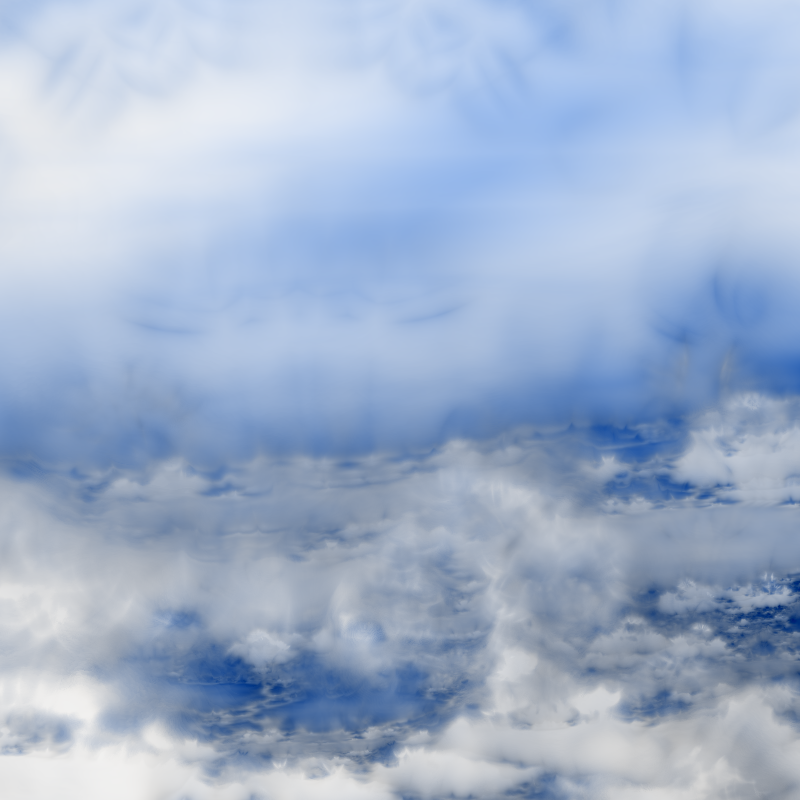
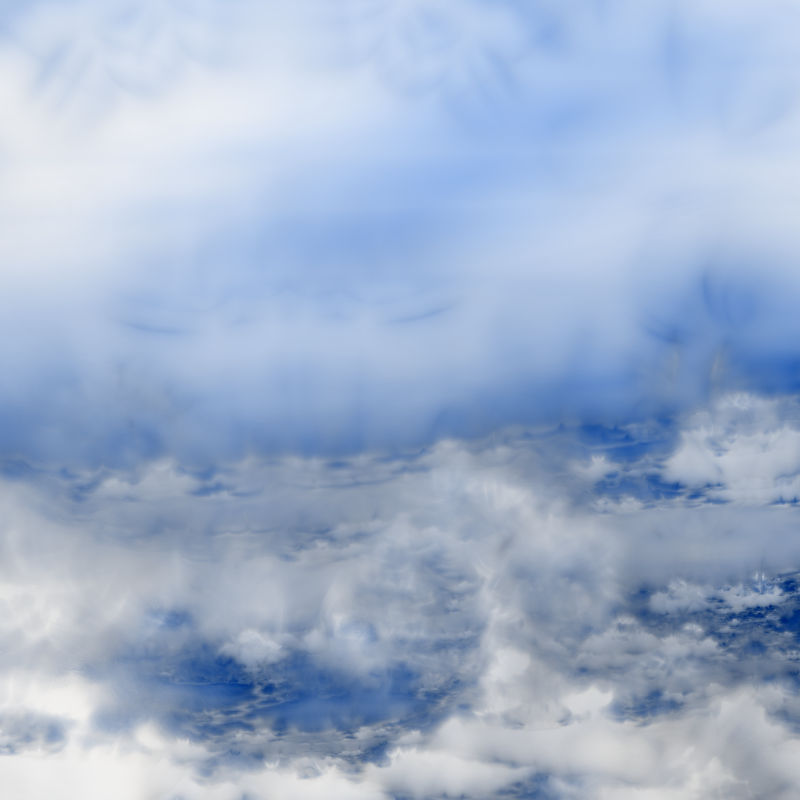
057: default to the published twigl source; keep the post's camera as a variant
Claude-Session: https://claude.ai/code/session_013HQgzbhzSbuk3Bazt74NBY

diff --git a/projects/057-after-nishitsuji/sketch.js b/projects/057-after-nishitsuji/sketch.js
@@ -1,10 +1,15 @@
-// After Nishitsuji — a faithful transcription of a twigl "geekest" one-liner by Yohei Nishitsuji
-// (x.com/yoheinishitsuji/status/1999814369925046474), expanded into readable GLSL ES 3.00.
+// After Nishitsuji — a faithful transcription of a twigl "geekest" one-liner by Yohei Nishitsuji,
+// expanded into readable GLSL ES 3.00.
+//   twigl:  https://twigl.app?ol=true&ss=-OgMbTexmkAwvg_2mnM_  (published source, the default)
+//   post:   x.com/yoheinishitsuji/status/1999814369925046474
 //
-// The original, verbatim:
+// The twigl source, verbatim:
 //   for(float i,g,e,s;++i<99.;o.rgb+=.01-hsv(.1,g*.016-e*.3,s/2e2)){vec3 p=vec3((FC.xy-.5*r)/r.y*5.
-//   +vec2(0,9),g)*rotate3D(-1.1-cos(t*.15)*.1,vec3(1,11.+sin(t)*.15,-1.5));s=2.;for(int i;i++<19;
+//   +vec2(0,9),g)*rotate3D(-1.15-cos(t*.2)*.05,vec3(1,11.+sin(t)*.2,-1.5));s=2.;for(int i;i++<19;
 //   p=vec3(.08,4,-1)-abs(abs(p)*e-vec3(3,4,3)))s*=e=7.1/dot(p,p*.51);g+=p.y/s;s=log2(s)/exp(e);}
+//
+// The variant quoted with the post differs only in the camera:
+//   rotate3D(-1.1-cos(t*.15)*.1, vec3(1,11.+sin(t)*.15,-1.5))
 //
 // twigl provides FC (gl_FragCoord), r (resolution), t (seconds), o (output) and the helpers
 // hsv() and rotate3D(), reproduced below. Defaults reproduce the original exactly; the panel
@@ -16,7 +21,13 @@
   addEventListener('error', e => err(e.message));
 
   const q = new URLSearchParams(location.search);
+  // camera: rotate3D(-base - cos(t*freq)*amp, vec3(1, 11 + sin(t)*axis, -1.5))
+  const CAMERAS = {
+    twigl: { base: 1.15, freq: 0.2, amp: 0.05, axis: 0.2 },
+    post: { base: 1.1, freq: 0.15, amp: 0.1, axis: 0.15 },
+  };
   const P = {
+    camera: q.get('camera') === 'post' ? 'post' : 'twigl',
     steps: 99,          // outer march limit (original: ++i<99. → 98 samples)
     folds: 19,          // inner fold iterations
     scale: 7.1,         // inversion numerator: e = scale / dot(p, p*.51)
@@ -38,6 +49,7 @@ in vec2 a; void main(){ gl_Position = vec4(a, 0., 1.); }`;
 precision highp float;
 uniform vec2 r; uniform float t;
 uniform int uSteps, uFolds; uniform float uScale, uZoom, uHue;
+uniform vec4 uCam; // base, freq, amp, axis
 out vec4 o;
 
 // twigl helpers
@@ -60,7 +72,7 @@ void main(){
   o = vec4(0., 0., 0., 1.);
   float g = 0., e = 0., s = 0.;
   // camera: slow sway of the rotation angle and axis
-  mat3 R = rotate3D(-1.1 - cos(t*.15)*.1, vec3(1., 11. + sin(t)*.15, -1.5));
+  mat3 R = rotate3D(-uCam.x - cos(t*uCam.y)*uCam.z, vec3(1., 11. + sin(t)*uCam.w, -1.5));
   for (int i = 1; i < 1000; i++) {
     if (i >= uSteps) break;
     // ray position: screen plane offset upward by 9, depth = accumulated distance g
@@ -99,7 +111,7 @@ void main(){
   gl.enableVertexAttribArray(loc);
   gl.vertexAttribPointer(loc, 2, gl.FLOAT, false, 0, 0);
   const U = n => gl.getUniformLocation(prog, n);
-  const u = { r: U('r'), t: U('t'), steps: U('uSteps'), folds: U('uFolds'), scale: U('uScale'), zoom: U('uZoom'), hue: U('uHue') };
+  const u = { r: U('r'), t: U('t'), steps: U('uSteps'), folds: U('uFolds'), scale: U('uScale'), zoom: U('uZoom'), hue: U('uHue'), cam: U('uCam') };
 
   function resize() {
     const w = Math.round(innerWidth * P.resolution), h = Math.round(innerHeight * P.resolution);
@@ -119,6 +131,8 @@ void main(){
     gl.uniform1f(u.scale, P.scale);
     gl.uniform1f(u.zoom, P.zoom);
     gl.uniform1f(u.hue, P.hue);
+    const c = CAMERAS[P.camera];
+    gl.uniform4f(u.cam, c.base, c.freq, c.amp, c.axis);
     gl.drawArrays(gl.TRIANGLES, 0, 3);
     requestAnimationFrame(draw);
   }
@@ -132,6 +146,7 @@ void main(){
 
   if (window.lil) {
     const gui = new lil.GUI({ title: 'After Nishitsuji' });
+    gui.add(P, 'camera', { 'twigl (published)': 'twigl', 'post text': 'post' });
     gui.add(P, 'steps', 10, 300, 1);
     gui.add(P, 'folds', 4, 30, 1);
     gui.add(P, 'scale', 5, 9, 0.01);
@@ -139,7 +154,7 @@ void main(){
     gui.add(P, 'hue', 0, 1, 0.005);
     gui.add(P, 'speed', 0, 3, 0.01);
     gui.add(P, 'resolution', 0.25, 2, 0.05);
-    gui.add({ reset() { Object.assign(P, { steps: 99, folds: 19, scale: 7.1, zoom: 5, hue: 0.1, speed: 1 }); gui.controllersRecursive().forEach(c => c.updateDisplay()); } }, 'reset').name('reset to original');
+    gui.add({ reset() { Object.assign(P, { camera: 'twigl', steps: 99, folds: 19, scale: 7.1, zoom: 5, hue: 0.1, speed: 1 }); gui.controllersRecursive().forEach(c => c.updateDisplay()); } }, 'reset').name('reset to original');
     gui.add({ save }, 'save').name('save PNG');
     if (innerWidth < 640) gui.close();
   }

diff --git a/projects/057-after-nishitsuji/README.md b/projects/057-after-nishitsuji/README.md
@@ -1,16 +1,21 @@
 # After Nishitsuji
 
 *A transcription, not an original work.* A one-line twigl shader by Yohei Nishitsuji
-([x.com/yoheinishitsuji/status/1999814369925046474](https://x.com/yoheinishitsuji/status/1999814369925046474)),
+([published on twigl](https://twigl.app?ol=true&ss=-OgMbTexmkAwvg_2mnM_), shown in
+[this post](https://x.com/yoheinishitsuji/status/1999814369925046474)),
 expanded into readable GLSL ES 3.00 and run as a standalone WebGL2 page. At the default settings
 the output matches the original: a cloud deck seen from above, drifting under a slowly swaying
 camera.
 
-## Original (verbatim)
+## Original (verbatim, from the twigl snapshot, mode 7 "geekest 300 es", dated 2025-12-13)
 
 ```glsl
-for(float i,g,e,s;++i<99.;o.rgb+=.01-hsv(.1,g*.016-e*.3,s/2e2)){vec3 p=vec3((FC.xy-.5*r)/r.y*5.+vec2(0,9),g)*rotate3D(-1.1-cos(t*.15)*.1,vec3(1,11.+sin(t)*.15,-1.5));s=2.;for(int i;i++<19;p=vec3(.08,4,-1)-abs(abs(p)*e-vec3(3,4,3)))s*=e=7.1/dot(p,p*.51);g+=p.y/s;s=log2(s)/exp(e);}
+for(float i,g,e,s;++i<99.;o.rgb+=.01-hsv(.1,g*.016-e*.3,s/2e2)){vec3 p=vec3((FC.xy-.5*r)/r.y*5.+vec2(0,9),g)*rotate3D(-1.15-cos(t*.2)*.05,vec3(1,11.+sin(t)*.2,-1.5));s=2.;for(int i;i++<19;p=vec3(.08,4,-1)-abs(abs(p)*e-vec3(3,4,3)))s*=e=7.1/dot(p,p*.51);g+=p.y/s;s=log2(s)/exp(e);}
 ```
+
+The version quoted with the post differs only in the camera:
+`rotate3D(-1.1-cos(t*.15)*.1,vec3(1,11.+sin(t)*.15,-1.5))` (a slightly higher, slower, wider sway).
+The panel's **camera** control switches between them; `?camera=post` selects the post's version.
 
 ## How it works
 
@@ -27,7 +32,7 @@ floats are set to 0, as twigl relies on in practice.
 
 ## Controls
 
-Panel: march steps, fold count, inversion scale, zoom, hue, speed, render resolution,
+Panel: camera (twigl / post), march steps, fold count, inversion scale, zoom, hue, speed, render resolution,
 **reset to original**, save PNG. Keys: F fullscreen, H hide, space pause, S save PNG.
 `?t=<seconds>` freezes the clock at a fixed time (used for `preview.png`, `t=3`).
 
